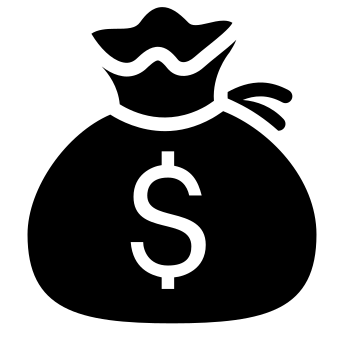
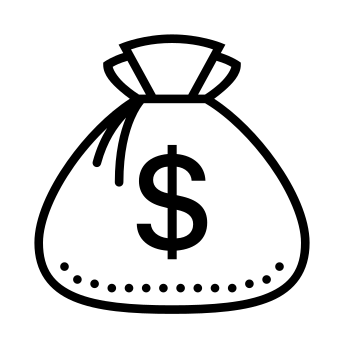
patch:modified the images styling;in CSS

diff --git a/contactUs.html b/contactUs.html
@@ -40,7 +40,7 @@
         <div class="middle1">
             <h3>Sell more</h3>
             <p>"I want to sell more,<br>faster,"but your train of <br> thought stops there-<br>then this is the right place<br>to be </p>
-            <img src="" style="width: 50px;">
+            <img src="Images/money-bag.png" style="width: 50px;">
         </div>
         <div class="middle2">
             <h3>Scale Up</h3>
@@ -58,25 +58,29 @@
         <div>
             <h5>Do I have to collect the vehicle<br>or is it delivered?</h5>
             <p>All the vehicles we suply on the website come<br> with free driven delivery to your home address<br> by the supplying of dealer.There is a surcharge for <br> the vehicles delivered from outside the country which<br>we get a price for when you are ready to <br> order.</p>
-        </div>
-        <div>
             <h5>How and when do I pay for the vehicle?</h5>
             <p>We understand it is a big decision to buy a new <br>car on the internetso JEE-PIN offer the safest <br>unique payment method for you the customer.<br> You can only pay the balance after the car has been <br>delivered to you home address and you are <br>totally happy.Most customers do a same day <br> bank or internet transfer</p>
+            <h5>If I have a problem with the car who do i contact?</h5>
+            <p>In the first instance give our office a call <br>and we will help and advice you the best we <br>can. However all the vehicles are covered by the <br> manufacturer's warranty which allows you <br> to take the vehicle into any dealership for <br> assessment and repair.</p>
         </div>
         <div>
-            <h5>If I have a problem with the car who do i contact?</h5>
-            <p>In the first instance give our office a call <br>and we will help and advice you the best we <br>can. However all the vehicles are covered by the manufacturer's warranty which allows you <br> to take the vehicle into any dealership for <br> assessment and repair.</p>
+            <img src="Images/car delivery.jpg" style="width: 10cm;height: 15cm;">
         </div>
-        <img src="">
     </div>
     <div class="calls">
-        <div>
-            <img src="Images/external-calls.png" style="width: 30px;">
-            <p><h2>CALL US</h2><br>Tel:123-456-7890 | Fax: 123-456-7890</p>
+        <div class="call1">
+            <div class="call1a" >
+                <img src="Images/external-calls.png" style="width: 30px;">
+                <h2>CALL US</h2>
+            </div>
+            <p>Tel:123-456-7890 | Fax: 123-456-7890</p>
         </div>
-        <div>
-            <img src="Images/external-email-.png" style="width: 30px;">
-            <p><h2>EMAIL US</h2><br>info@mysite.com</p>
+        <div class="call2">
+            <div class="call1a">
+                <img src="Images/external-email-.png" style="width: 30px;">
+                <h2>EMAIL US</h2>
+            </div>
+            <p>info@mysite.com</p>
         </div>
     </div>
     <div class="downtown">
@@ -98,11 +102,11 @@
         <div>
             <h2>VISIT US</h2>
             <p>5th Avenue Street <br>Nairobi, KE 94158</p>
-            <img src="Images/facebook-new.png" style="width: 40px;">
-            <img src="Images/twitter-circled.png" style="width: 40px;">
-            <img src="Images/external-youtube.png" style="width: 40px;">
-            <img src="Images/pinterest.png" style="width: 40px;">
-            <img src="Images/instagram-new.png" style="width: 40px;">
+            <img src="" style="width: 40px;">
+            <img src="" style="width: 40px;">
+            <img src="" style="width: 40px;">
+            <img src="" style="width: 40px;">
+            <img src="" style="width: 40px;">
         </div>
     </div>
     <footer>

diff --git a/contactUs.css b/contactUs.css
@@ -12,15 +12,19 @@
 ul li{
     float: left;
     list-style-type: none;
+    
 }
 ul li a{
-    padding: 40px;
+    padding: 30px;
+    margin-top: 2px ;
     display: inline;
+    justify-content: center;
 }
 .keys{
     text-align: center;
-    width: fit-content;
-    padding: 200px;
+    padding: 230px;
+    justify-content: center; 
+    
 }
 button{
     padding: 5px;
@@ -33,6 +37,7 @@ button{
 .middle{
     display: flex;
     flex-direction: row;
+    justify-content:  center;
 }
 .middle1{
     justify-content: center;
@@ -64,4 +69,31 @@ button{
     align-items: center;
     text-align: center;
     background-color: red;
+}
+.faqs{
+    display: flex;
+    flex-direction: row;
+    justify-content: center;
+}
+h5{
+    color: orangered;
+}
+
+.calls{
+    display: flex;
+    justify-content: space-around;
+    background-color: red;
+    padding: 10px;
+}
+
+.call1a{
+    display: flex;
+}
+.downtown{
+    background-color: black;
+    color: azure;
+    display: flex;
+    justify-content: center;
+    align-items: center;
+    text-align: center;
 }
